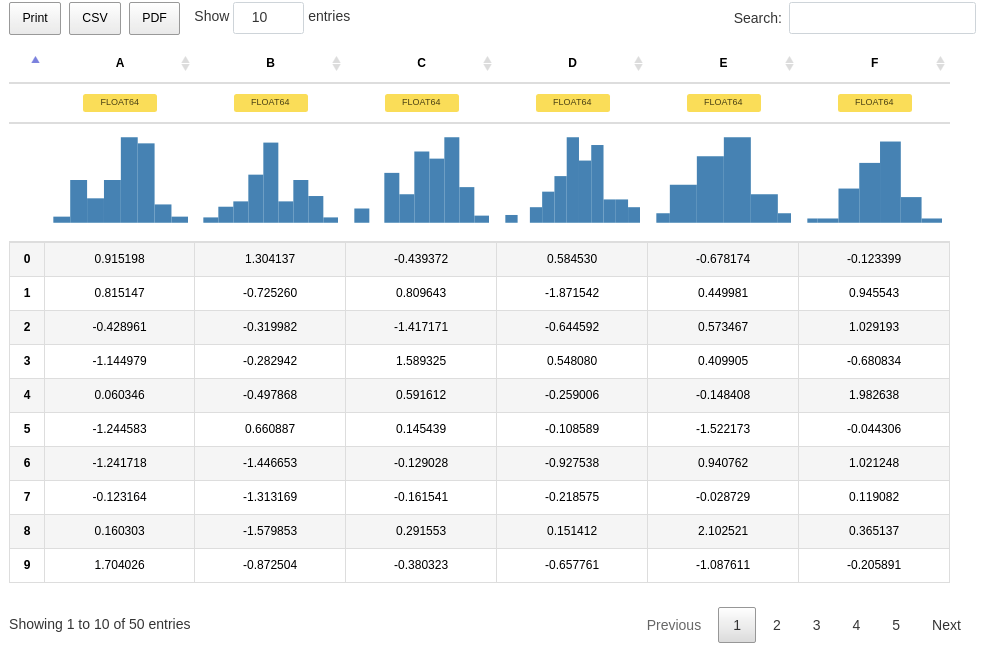
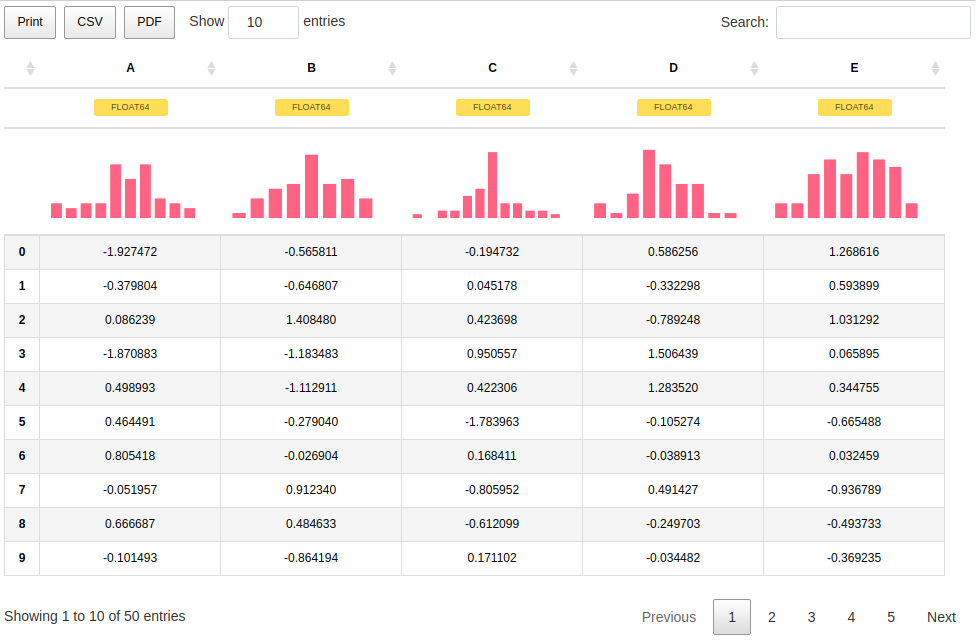
Update README.md
Updates for v0.3.0

modified:   README.md

new file:   assets/images/jupyter-datatables-datetime-tooltips.gif
new file:   assets/images/jupyter-datatables-tooltips.gif

modified:   assets/images/jupyter-datatables-long.png
modified:   assets/images/jupyter-datatables-wide.gif
modified:   assets/images/jupyter-datatables.png

deleted:    assets/images/jupyter-datatables-dtypes.gif

diff --git a/README.md b/README.md
@@ -44,7 +44,7 @@ init_datatables_mode()
 That's it, your default pandas representation will now use Jupyter DataTables!
 
 ```python
-df = pd.DataFrame(np.abs(np.random.randn(50, 6)), columns=list(string.ascii_uppercase[:6]))
+df = pd.DataFrame(np.abs(np.random.randn(50, 5)), columns=list(string.ascii_uppercase[:5]))
 ```
 
 ![Jupyter Datatables table representation](https://raw.github.com/CermakM/jupyter-datatables/master/assets/images/jupyter-datatables.png)
@@ -73,46 +73,36 @@ df = pd.DataFrame(np.abs(np.random.randn(50, 20)), columns=list(string.ascii_upp
 
 <br>
 
-As per 0.2.0, there is a support for multiple dtypes like `object`, `categorical` and `datetime`.
+As per 0.3.0, there is a support for **interactive tooltips**:
 
+![Jupyter Datatables wide table representation](https://raw.github.com/CermakM/jupyter-datatables/master/assets/images/jupyter-datatables-tooltips.gif)
+
+
+And also support for custom indices including `Date` type:
 
 ```python
 dft = pd.DataFrame({'A': np.random.rand(5),
                     'B': [1, 1, 3, 2, 1],
-                    'C': 'foo',
-                    'C_': 'This is a very long sentence that should automatically be trimmed',
-                    'D': [
-                        pd.Timestamp('20010101'), pd.Timestamp('20010102'),
-                        pd.Timestamp('20010103'), pd.Timestamp('20010103'),
-                        pd.Timestamp('20010104')
-                    ],
+                    'C': 'This is a very long sentence that should automatically be trimmed',
+                    'D': [pd.Timestamp('20010101'), pd.Timestamp('20010102'), pd.Timestamp('20010103'), pd.Timestamp('20010104'), pd.Timestamp('20010105')],
                     'E': pd.Series([1.0] * 5).astype('float32'),
                     'F': [False, True, False, False, True],
-                    'G': pd.Series([1] * 5, dtype='int8')}
-                  )
+                   })
+
+dft.D = dft.D.apply(pd.to_datetime)
+dft.set_index('D', inplace=True)
 ```
-![Jupyter Datatables multiple dtypes representation](https://raw.github.com/CermakM/jupyter-datatables/master/assets/images/jupyter-datatables-dtypes.gif)
- 
+
+![Jupyter Datatables wide table representation](https://raw.github.com/CermakM/jupyter-datatables/master/assets/images/jupyter-datatables-datetime-tooltips.gif)
+
 ---
 
 <br>
 
-#### The future plans:
+#### Current status and future plans:
 
-- allow custom operations on the table:
-    - edit column name
-    - edit column type
-- handle multi index
-- handle nested data
-- improve plotting:
-    - performance and efficiency
-    - customizable
-    - resizable
-    - dockable
-    - draggable to a Jupyter cell (??)
-    
-- [stretch goal] increased performance and space efficiency by server-side processing -- lazy loading
+Check out the [Project Board](https://github.com/users/CermakM/projects/1) where we track issues and TODOs for our Jupyter tooling!
 
 ---
 
-> Author: Marek Cermak <macermak@redhat.com>, @AICoE - Project Thoth
+> Author: Marek Cermak <macermak@redhat.com>, @AICoE
